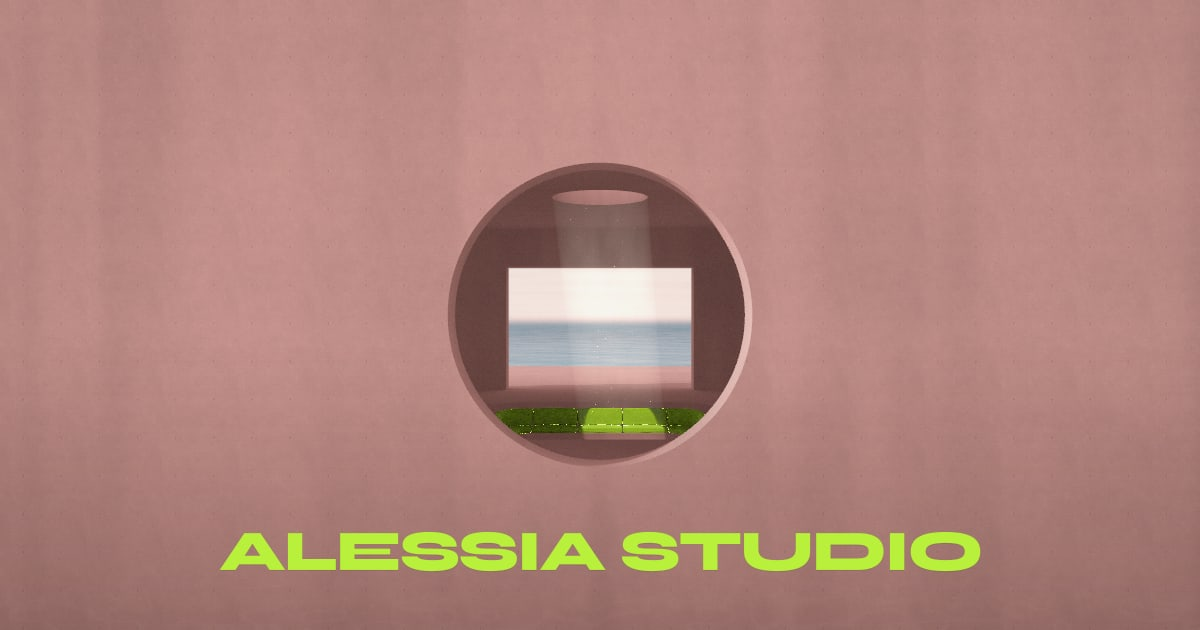
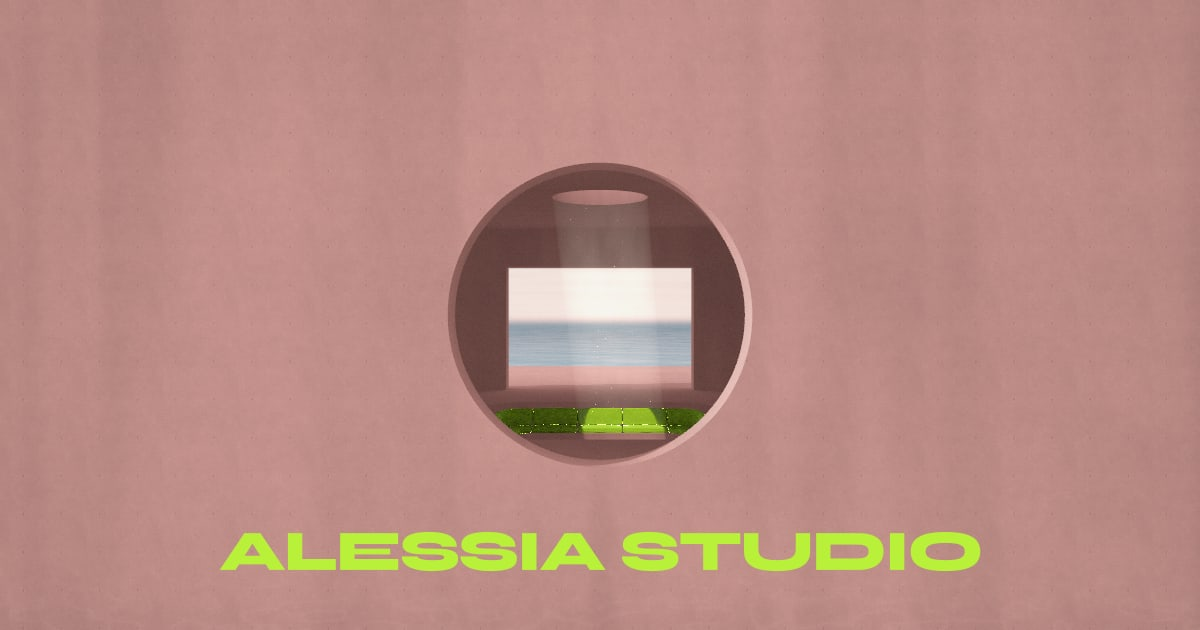
Marchio: i primi 6 post Instagram e anteprima senza ombre
tools/ig-posts.mjs compone i primi 6 post (1080x1350) in brand/instagram/post:
tre immagini del sito senza testi (il muro con la finestra tonda e il logo, i
divani verdi, la statua sott'acqua) e tre grafiche col testo grande in Syne
(manifesto e contatto verde su rosa, Italia · México · Colombia · Worldwide
rosa su verde), più griglia.jpg con l'anteprima del profilo: immagini e
grafiche si alternano a scacchiera. Il brief di Instagram descrive il sito
attuale (niente più progetti) e ha la didascalia di ogni post.

L'immagine di anteprima per i social non ha più l'ombra sotto il logo, come
vuole il brief del marchio.

Claude-Session: https://claude.ai/code/session_01QuJDfzDVvdCMJCQg1EtV47

Changed region(s): [[0.0, 0.8143, 1.0, 1.0]]

diff --git a/alessia-studio/brand/BRIEF-instagram.md b/alessia-studio/brand/BRIEF-instagram.md
@@ -1,6 +1,6 @@
 # Alessia Studio · brief per i post Instagram
 
-Questo file accompagna il kit del marchio (logo, colori, font, immagini del sito e dei progetti).
+Questo file accompagna il kit del marchio (logo, colori, font, immagini del sito, i primi post).
 Serve a chi prepara i post: tutto quello che c'è da sapere sta qui.
 
 ## Chi siamo
@@ -25,7 +25,7 @@ Serve a chi prepara i post: tutto quello che c'è da sapere sta qui.
 
 **Regole**
 - Nessun altro colore nella grafica: niente nero, grigi, blu, altri verdi o altri rosa.
-  Le immagini (screenshot del sito e dei progetti) restano come sono.
+  Le immagini (screenshot del sito) restano come sono.
 - Le due combinazioni: **verde su rosa** (la principale) e **rosa su verde**.
 - Il verde e il rosa hanno chiarezza simile (contrasto 1,6:1): i testi sulla grafica vanno **grandi e
   corti** (titoli, 3–8 parole, almeno 60 px su un post largo 1080 px). Il testo lungo va nella
@@ -59,42 +59,31 @@ designer). Il sito non si "guarda": si visita, si attraversa.
 - **Contenido:** renders y animaciones 3D · motion design y video · contenido para redes sociales ·
   campañas y lanzamientos
 
-## Il sito (immagini in `sito/`)
+## Il sito
 Un percorso in 3D guidato dallo scroll, in un edificio di cemento rosa sul mare: si entra dalla finestra
 circolare, ci si ferma accanto ai divani verdi (ALESSIA STUDIO), sotto il lucernario (Visión), fuori
-sulla terrazza davanti al mare (Qué hacemos), poi ci si tuffa: sott'acqua ogni scroll porta alla bolla
-successiva, ogni bolla è un progetto (con due squaletti attorno).
-
-## Progetti (immagini in `progetti/`)
-Sono **demo e proposte**. Non c'è l'autorizzazione a mostrare nomi, marchi o dati dei clienti: nei post
-si parla solo della **categoria** e dell'idea, mai di chi è il progetto, e si usano solo le immagini di
-`progetti/` (ritagli delle scene 3D senza testi, loghi, indirizzi, numeri o volti).
-| Progetto | Tipo | In una frase |
-|---|---|---|
-| Bienes raíces | Mapa 3D interactivo | Una península en 3D: desarrollos para explorar, búsqueda con filtros y rutas animadas. |
-| Hotel boutique | Casona histórica | Del agua al patio: un recorrido inmersivo por la casona y sus habitaciones. |
-| Restaurante de autor | Cocina regional | La casa se vuelve el sitio: de la entrada a la terraza, con menú, autores y reservas. |
-| Despacho de abogados | Sitio profesional | Un monumento de mármol inspirado en el cosmos de Dante. |
-| Hacienda | Restaurante y eventos | Una espina de henequén borda sobre el lino; la historia de la casa se vuelve recorrido. |
-| Restaurante italiano | Cocina romana | Un avión despega del Coliseo y aterriza en tu ciudad. |
-| Carnicería boutique | Cortes selectos | Ocho escenas en una sola película con scroll. |
-| Pizzería | Cocina del sur de Italia | Del cielo del sur de Italia a la mesa familiar: menú, reservas y mapa son platos que se tocan. |
+sulla terrazza davanti al mare (Qué hacemos), poi ci si tuffa: sul fondale c'è una statua di bronzo che
+si gira col dito, con due squali attorno e le bolle che salgono; infine lo sguardo sale verso la luce
+(Contáctanos). Niente progetti di clienti: non c'è l'autorizzazione a mostrarli.
 
 ## Formati
 - Post: **1080 × 1350** (4:5) · quadrato 1080 × 1080 · storie e reel 1080 × 1920
   (nelle storie lasciare liberi 250 px in alto e 340 in basso)
 - Margini interni: 72 px
 
-## Idee per i primi 9 post (la griglia 3×3 del profilo)
-1. Logo verde su rosa: *ALESSIA STUDIO*
-2. Manifesto, verde su rosa: *Un sitio web puede ser un lugar, no una página.*
-3. Il sito: i divani verdi (immagine da `sito/`)
-4. Rosa su verde: *Italia · México · Colombia · Worldwide*
-5. Carosello dei servizi: Marca / Digital / Contenido (una slide per gruppo)
-6. Il sito: il lucernario
-7. Un progetto (carosello con le immagini di `progetti/`): solo la categoria, nessun nome
-8. Il sito: le bolle dei progetti sott'acqua
-9. Verde su rosa: *¿Tienes un lugar que construir?* + contatto
+## I primi 6 post (in `instagram/post/`, 1080 × 1350)
+Si pubblicano in quest'ordine; nella griglia del profilo l'ultimo sta in alto a sinistra, così immagini e
+grafiche si alternano a scacchiera (anteprima: `instagram/post/griglia.jpg`).
+| | File | Didascalia |
+|---|---|---|
+| 1 | `01-logo.jpg` | ALESSIA STUDIO. Branding, dirección creativa y sitios web 3D. Italia · México · Colombia · Worldwide. |
+| 2 | `02-manifiesto.jpg` | Un sitio web puede ser un lugar, no una página. Diseñamos marcas y espacios digitales para recorrer: arquitecturas de luz, materia y movimiento que cuentan una marca como una visita. |
+| 3 | `03-el-sitio.jpg` | Nuestro sitio es un recorrido en 3D: un edificio de hormigón rosa sobre el mar. Cada scroll es un paso. |
+| 4 | `04-worldwide.jpg` | Nacimos en Italia, trabajamos entre México y Colombia, con marcas de todo el mundo. |
+| 5 | `05-el-fondo.jpg` | Al final del recorrido, un salto al mar: en el fondo, una escultura en 3D que se gira con el dedo, en tiempo real. |
+| 6 | `06-contacto.jpg` | ¿Tienes un lugar que construir? Escríbenos por WhatsApp: +39 346 175 8562. Trabajamos en remoto en español, italiano, inglés y portugués. |
+
+Si rifanno con `node tools/ig-posts.mjs <cartella>` (vedi in cima al file).
 
 Hashtag possibili: #diseñoweb #webdesign #sitiosweb3d #branding #direccióncreativa #diseño3d
 #mérida #yucatán #méxico #italia

diff --git a/alessia-studio/README.md b/alessia-studio/README.md
@@ -111,6 +111,7 @@ con doppio clic).
 node tools/brand-kit.mjs                    # logo (SVG/PNG, verde e rosa), immagini del profilo, tavola dei colori
 node tools/brand-pdf.mjs                    # brand/alessia-studio-brand-kit.pdf: il kit per chi prepara i post
 node tools/presentation-pdf.mjs <cartella>           # brand/alessia-studio-presentacion.pdf: 16:9, 16 pagine, senza progetti né prezzi
+node tools/ig-posts.mjs <cartella>                   # brand/instagram/post/: i primi 6 post (1080x1350) e la griglia
 node tools/presentation-pdf-vertical.mjs <cartella>  # brand/alessia-studio-presentacion-vertical.pdf: A4, 6 pagine, senza progetti né prezzi
 # immagini senza testi, nelle proporzioni della pagina (niente ritagli):
 #   orizzontale: shoot.mjs "<url>?still" <cartella> --size=1600x900 --notext --points=0,0.1,0.251,0.359,0.445,0.555,0.612,0.675
